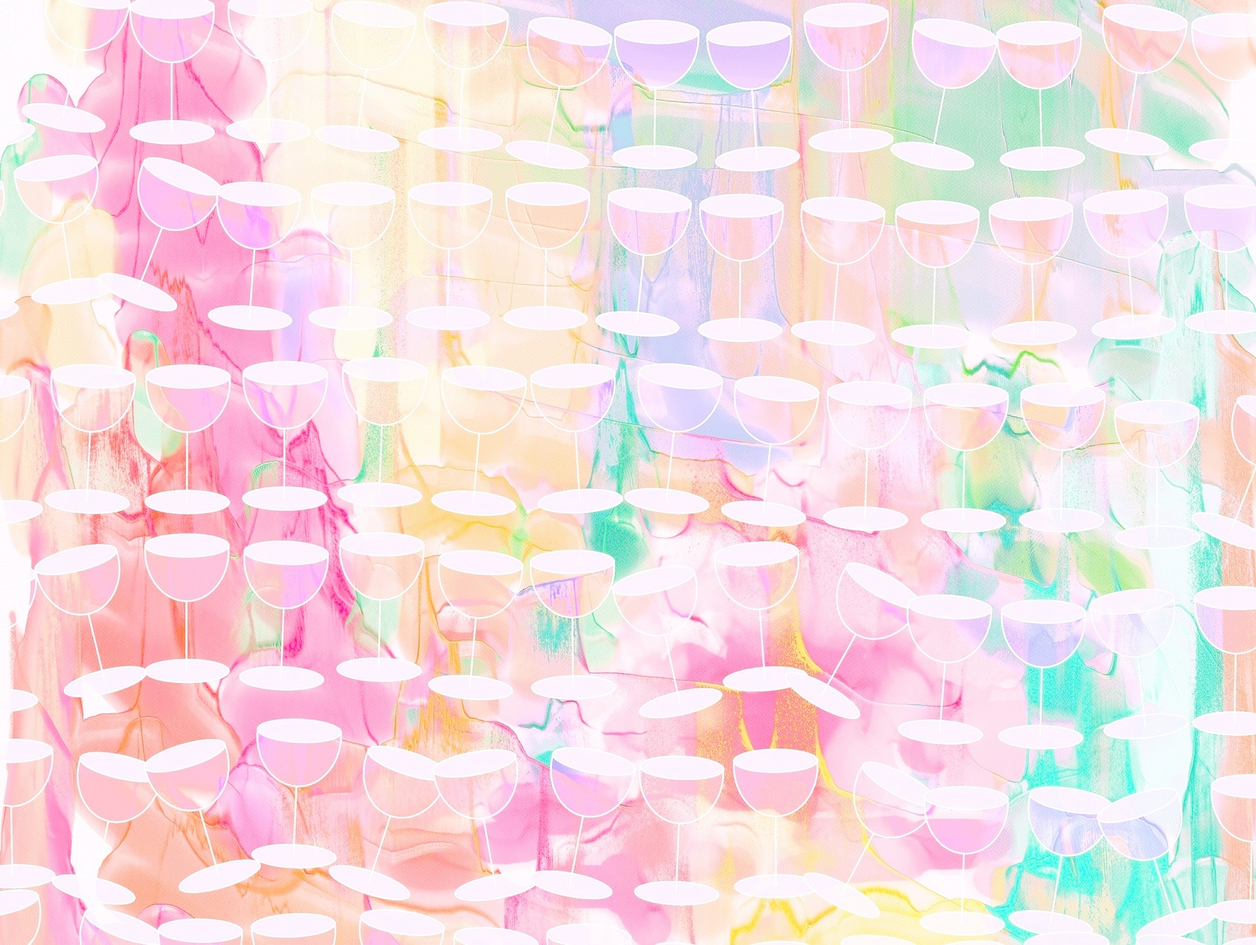
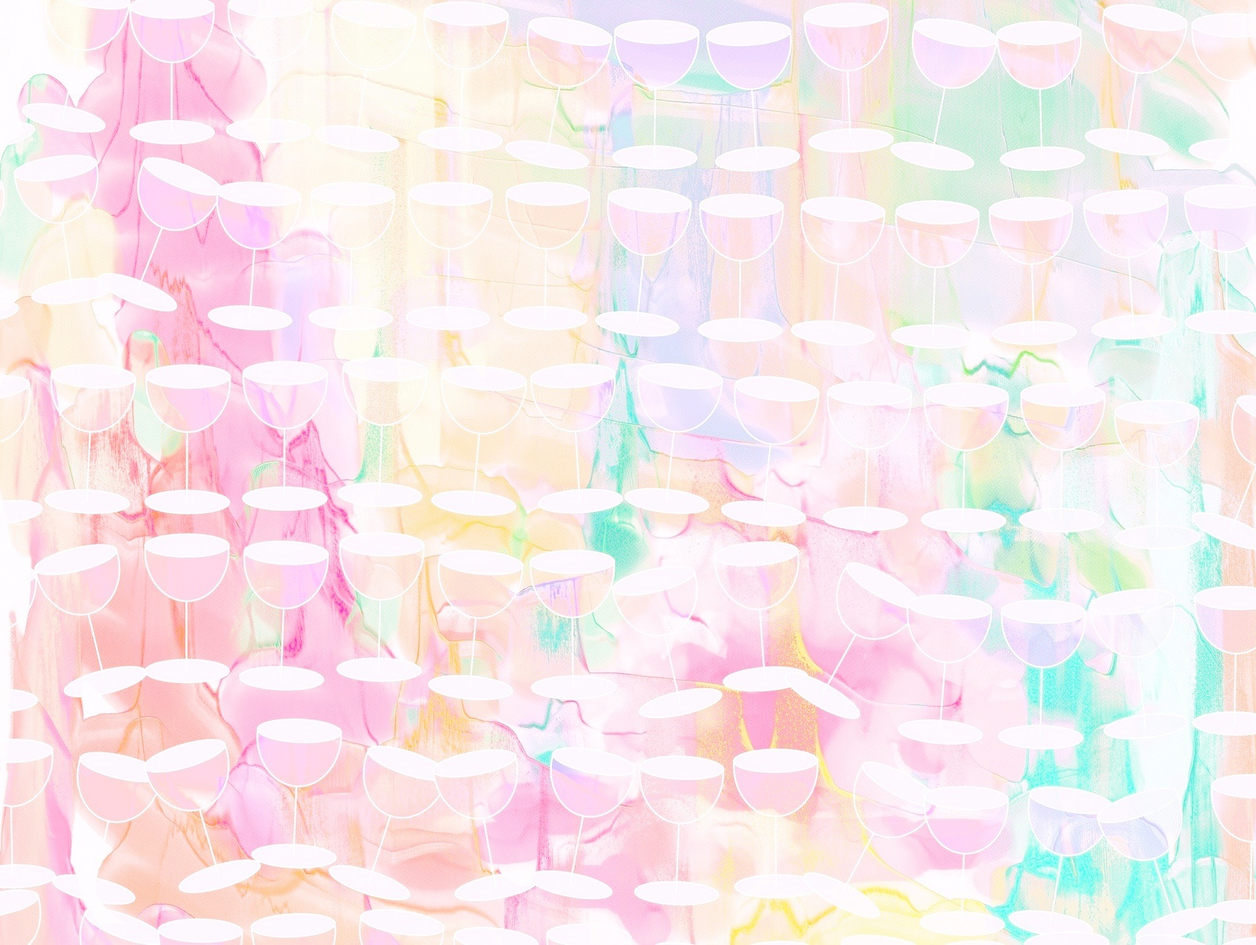
adds content and css updates

diff --git a/src/index.css b/src/index.css
@@ -29,7 +29,14 @@ body {
   /* background-repeat: no-repeat; */
   /* position: relative; */
   flex: 1;
-
+   /* background-size: cover;
+    background-repeat: no-repeat;
+    background-attachment: fixed; */
+    width: 100%;
+    height: 100%;
+    background-repeat: no-repeat;
+    background-attachment: fixed;
+    background-position: center;
 }   
 
 
@@ -146,6 +153,7 @@ code {
 
 
 .main-content {
+  height: 100%;
   margin-top: 20px;
   margin-left: 50px;
   margin-right: 50px;
@@ -411,7 +419,7 @@ ul {
   height: 80px;
   width: 100%;
   position: scroll;
-  /* height: 50px; */
+
 
 }
 
@@ -420,86 +428,14 @@ ul {
 @media only screen and (min-width: 992px) {
   body html {
     background-image: url(/images/watercolour-1755757_1920.jpg);
-    background-size: cover;
-    /* background-repeat: no-repeat; */
-    background-attachment: fixed;
+   /* background-size: cover;
+    background-repeat: no-repeat;
+    background-attachment: fixed; */
     width: 100%;
     height: 100%;
-  }
-
- .header h1{
-   font-size: 38px;
-  
- }
- .footer {
-   font-size: 14px;
-   display: flex;
-   flex-direction: column;
-   justify-content: center;
-   background-color: rgb(235, 121, 121);
-   padding-top: 10px;
-   font-family: Arial, Helvetica, sans-serif;
-   flex-shrink: 0;
-   left: 0;
-   bottom: 0;
-   overflow: hidden;
-   height: 80px;
-   width: 100%;
-   position: scroll;
-
- }
- .content-container {
-  height: 100%;
-  width: 100%;
-}
-}
-
-
-@media only screen and (min-width: 600px) {
-  body {
-    background-image: url(/images/watercolour-1755757_1920.jpg);
-    background-size: cover;
-    /* background-repeat: no-repeat; */
+    background-repeat: no-repeat;
     background-attachment: fixed;
-    width: 100%;
-    height: 100%;
-  }
-
- .header h1{
-   font-size: 38px;
-  
- }
- .footer {
-   font-size: 14px;
-   display: flex;
-   flex-direction: column;
-   justify-content: center;
-   background-color: rgb(235, 121, 121);
-   padding-top: 10px;
-   font-family: Arial, Helvetica, sans-serif;
-   flex-shrink: 0;
-   left: 0;
-   bottom: 0;
-   overflow: hidden;
-   height: 80px;
-   width: 100%;
-   position: scroll;
-
- }
- .content-container {
-  height: 100%;
-  width: 100%;
-}
-}
-
-@media only screen and (min-width: 1200px) {
-  body {
-    background-image: url(/images/watercolour-1755757_1920.jpg);
-    background-size: cover;
-    /* background-repeat: no-repeat; */
-    background-attachment: fixed;
-    width: 100%;
-    height: 100%;
+    background-position: center;
   }
 
  .header h1{
@@ -521,6 +457,90 @@ ul {
   height: 80px;
   width: 100%;
   position: scroll;
+
+
+
+ }
+ .content-container {
+  height: 100%;
+  width: 100%;
+}
+}
+
+
+@media only screen and (min-width: 600px) {
+  body {
+    background-image: url(/images/watercolour-1755757_1920.jpg);
+    /* background-size: cover;
+    background-repeat: no-repeat;
+    background-attachment: fixed; */
+    width: 100%;
+    height: 100%;
+    background-repeat: no-repeat;
+    background-attachment: fixed;
+    background-position: center;
+  }
+
+ .header h1{
+   font-size: 38px;
+  
+ }
+ .footer {
+  font-size: 14px;
+  display: flex;
+  flex-direction: column;
+  justify-content: center;
+  background-color: rgb(235, 121, 121);
+  padding-top: 10px;
+  font-family: Arial, Helvetica, sans-serif;
+  flex-shrink: 0;
+  left: 0;
+  bottom: 0;
+  overflow: hidden;
+  height: 80px;
+  width: 100%;
+  position: scroll;
+
+
+ }
+ .content-container {
+  height: 100%;
+  width: 100%;
+}
+}
+
+@media only screen and (min-width: 1200px) {
+  body {
+    background-image: url(/images/watercolour-1755757_1920.jpg);
+    /* background-size: cover;
+    background-attachment: scroll; */
+    width: 100%;
+    height: 100%;
+    background-repeat: no-repeat;
+    background-attachment: fixed;
+    background-position: center;
+  }
+
+ .header h1{
+   font-size: 38px;
+  
+ }
+ .footer {
+  font-size: 14px;
+  display: flex;
+  flex-direction: column;
+  justify-content: center;
+  background-color: rgb(235, 121, 121);
+  padding-top: 10px;
+  font-family: Arial, Helvetica, sans-serif;
+  flex-shrink: 0;
+  left: 0;
+  bottom: 0;
+  overflow: hidden;
+  height: 80px;
+  width: 100%;
+  position: scroll;
+
  }
  .content-container {
   height: 100%;

diff --git a/src/components/WineList.js b/src/components/WineList.js
@@ -46,47 +46,25 @@ export default class WineList extends React.Component {
         console.log(this.props)
         await this.props.getWines();
         console.log(this.props)
-
-        // const deleted = await axios({
-        //     method: 'post',
-        //     url: "/api/delete",
-        //     data: {
-        //         wine_id: wineId
-        //     }
-        // }).then( resp => {
-        //     return resp.data;
-        // });
     }
     _handleEdit= async (event, wineId) => {
         console.log('we want to redirect')
-        // history.push('/');
-        // return  <Redirect to ="/" > 
-           
-        
-        // const editWine = await axios({
-        //     method: 'post',
-        //     url: "/api/editwines",
-        //     data: {
-        //         wine_id: wineId
-        //     }
-        // }).then( resp => {
-        //     return resp.data;
-        // });
-        // console.log(editWine)
+
     }
 
     render() {
         console.log(this.state)
         console.log(this.props)
         if (this.props.winelist.wines.length === 0) { 
-            return <div className="rated-wines-title">You have not rated any wines yet</div>
+            return <div className="rated-wines-title">You have not rated any wines yet</div> 
         } else { 
         
         return ( 
             
             <div>
-<div className="rated-wines-title">Searchwines:
-                </div>    <MyWineSearch />
+{/* <div className="rated-wines-title">Search:
+                </div>    */}
+                 <MyWineSearch />
                 <div className="rated-wines-title">My rated wines:
                 </div>
                 

diff --git a/src/components/WineSearchResults.js b/src/components/WineSearchResults.js
@@ -7,6 +7,8 @@ import StarRatingComponent from 'react-star-rating-component';
 import axios from 'axios';
 axios.defaults.withCredentials = true;
 
+
+
 export default function WineSearchResults({ wineSearchResults, handleClearResults }) {
     useEffect(() => {
         handleClearResults();
@@ -16,9 +18,11 @@ export default function WineSearchResults({ wineSearchResults, handleClearResult
     console.log("WINESEARCHRESULTS")
    return (wineSearchResults && wineSearchResults.length > 0) ? wineSearchResults.map((m, i) => {
         return (
-            <div key={`wine-${m.wine_name}-${i}`}className="rated-wine-cards"> 
+            <div   
+            key={`wine-${m.wine_name}-${i}`}className="rated-wine-cards"> 
             <ul> 
-                <div>{m.wine_name}
+            <div>
+                <div className="wine-name"> {m.wine_name} </div>
                 <li>Type: {m.wine_type}
                 </li>
                 <li>Price: {m.wine_price}
@@ -39,10 +43,7 @@ export default function WineSearchResults({ wineSearchResults, handleClearResult
                         starColor="#f00"
                         renderStarIcon={() => <span><i class="fas fa-wine-glass-alt"></i></span>} />
                 </li>
-                <input type="submit" value="Edit" className="wine-edit" />
-                
-                <input type="button" value="Delete" className="wine-edit" onClick={(event)=> this._handleDel(event, m.id, i)} />
-
+                <input type="button" className="fav-button" value="❤" onClick={(event)=> this._handleFavorite(event, m.id)} />
                 </div>
 
             </ul>

diff --git a/src/components/WineForm.js b/src/components/WineForm.js
@@ -26,10 +26,13 @@ export default class WineForm extends React.Component {
           <br></br>
         <p>Welcome to Wine-O-Clock - your personal wine rating application!</p> 
        
-        <p>Add the wines you bought to the form below and give them a wine-rating from 1-5, so every time you go to the store you can look in your app and check if you have already tried this wine!
-        <p>To view all rated wines by all users, you can simply click here. See a wine you want to try? Add it to your favorite list.</p>
+        <p>Add the wines you bought to the form below and give them a wine-rating from 1-5, so every time you buy wine, you can look in your app and check if you have already tried it!
+        <p>To view all rated wines by all users, you can simply click 
+        <a href="/wines"> here</a> See a wine you want to try? Add it to your favorites list.</p>
         </p>
-        <h4>And remember: It's Wine-O-Clock somewhere! Cheers!</h4>
+        <h4>And remember: It's Wine-O-Clock somewhere and life is too short to drink shitty wine! Cheers!</h4>
+        <p>💜 Please donate an amount of what you saved by only buying good wine to an animal rescue 💜
+        </p>
       
       </div>
             <div className="wine-form-container">

diff --git a/src/components/MyWineSearchResults.js b/src/components/MyWineSearchResults.js
@@ -10,15 +10,19 @@ axios.defaults.withCredentials = true;
 export default function MyWineSearchResults({ myWineSearchResults, handleClearResults }) {
     useEffect(() => {
         handleClearResults();
+
     }, []);
 
+    
 
     console.log("WINESEARCHRESULTS")
    return (myWineSearchResults && myWineSearchResults.length > 0) ? myWineSearchResults.map((m, i) => {
         return (
             <div key={`wine-${m.wine_name}-${i}`}className="rated-wine-cards"> 
             <ul> 
-                <div>{m.wine_name}
+            <div>
+                <div className="wine-name"> {m.wine_name} 
+                </div>
                 <li>Type: {m.wine_type}
                 </li>
                 <li>Price: {m.wine_price}
@@ -51,4 +55,7 @@ export default function MyWineSearchResults({ myWineSearchResults, handleClearRe
     }): 
  null
         }
+
+   
+    
        

diff --git a/src/components/AllWinesList.js b/src/components/AllWinesList.js
@@ -82,12 +82,13 @@ export default class AllWinesList extends React.Component {
             
             <div>
             <div> 
+            <div className="main-content">
                 <div className="container-text">Take a look at how other users rated wines.</div>
                 <div className="container-text">See a wine you like?</div>
                 <div className="container-text">Click the ❤ to add a wine to your favorites!</div>
                 <WineSearch />
                 <div className="rated-wines-title">All rated wines: </div>
-
+                </div>
                 </div>
 
                 {/* <SearchBar 

diff --git a/src/containers/WineListContainer.js b/src/containers/WineListContainer.js
@@ -61,10 +61,10 @@ function mapDispatchToProps(dispatch) {
                 console.log(resp)
                 return resp.data.wineList;
             });
-            // if (myWines && myWines.length > 0) {
+            if (myWines && myWines.length > 0) {
                 console.log('calling dispatch')
                 dispatch(getPersonalWines(myWines))
-            // }
+            }
         }
     
     }
